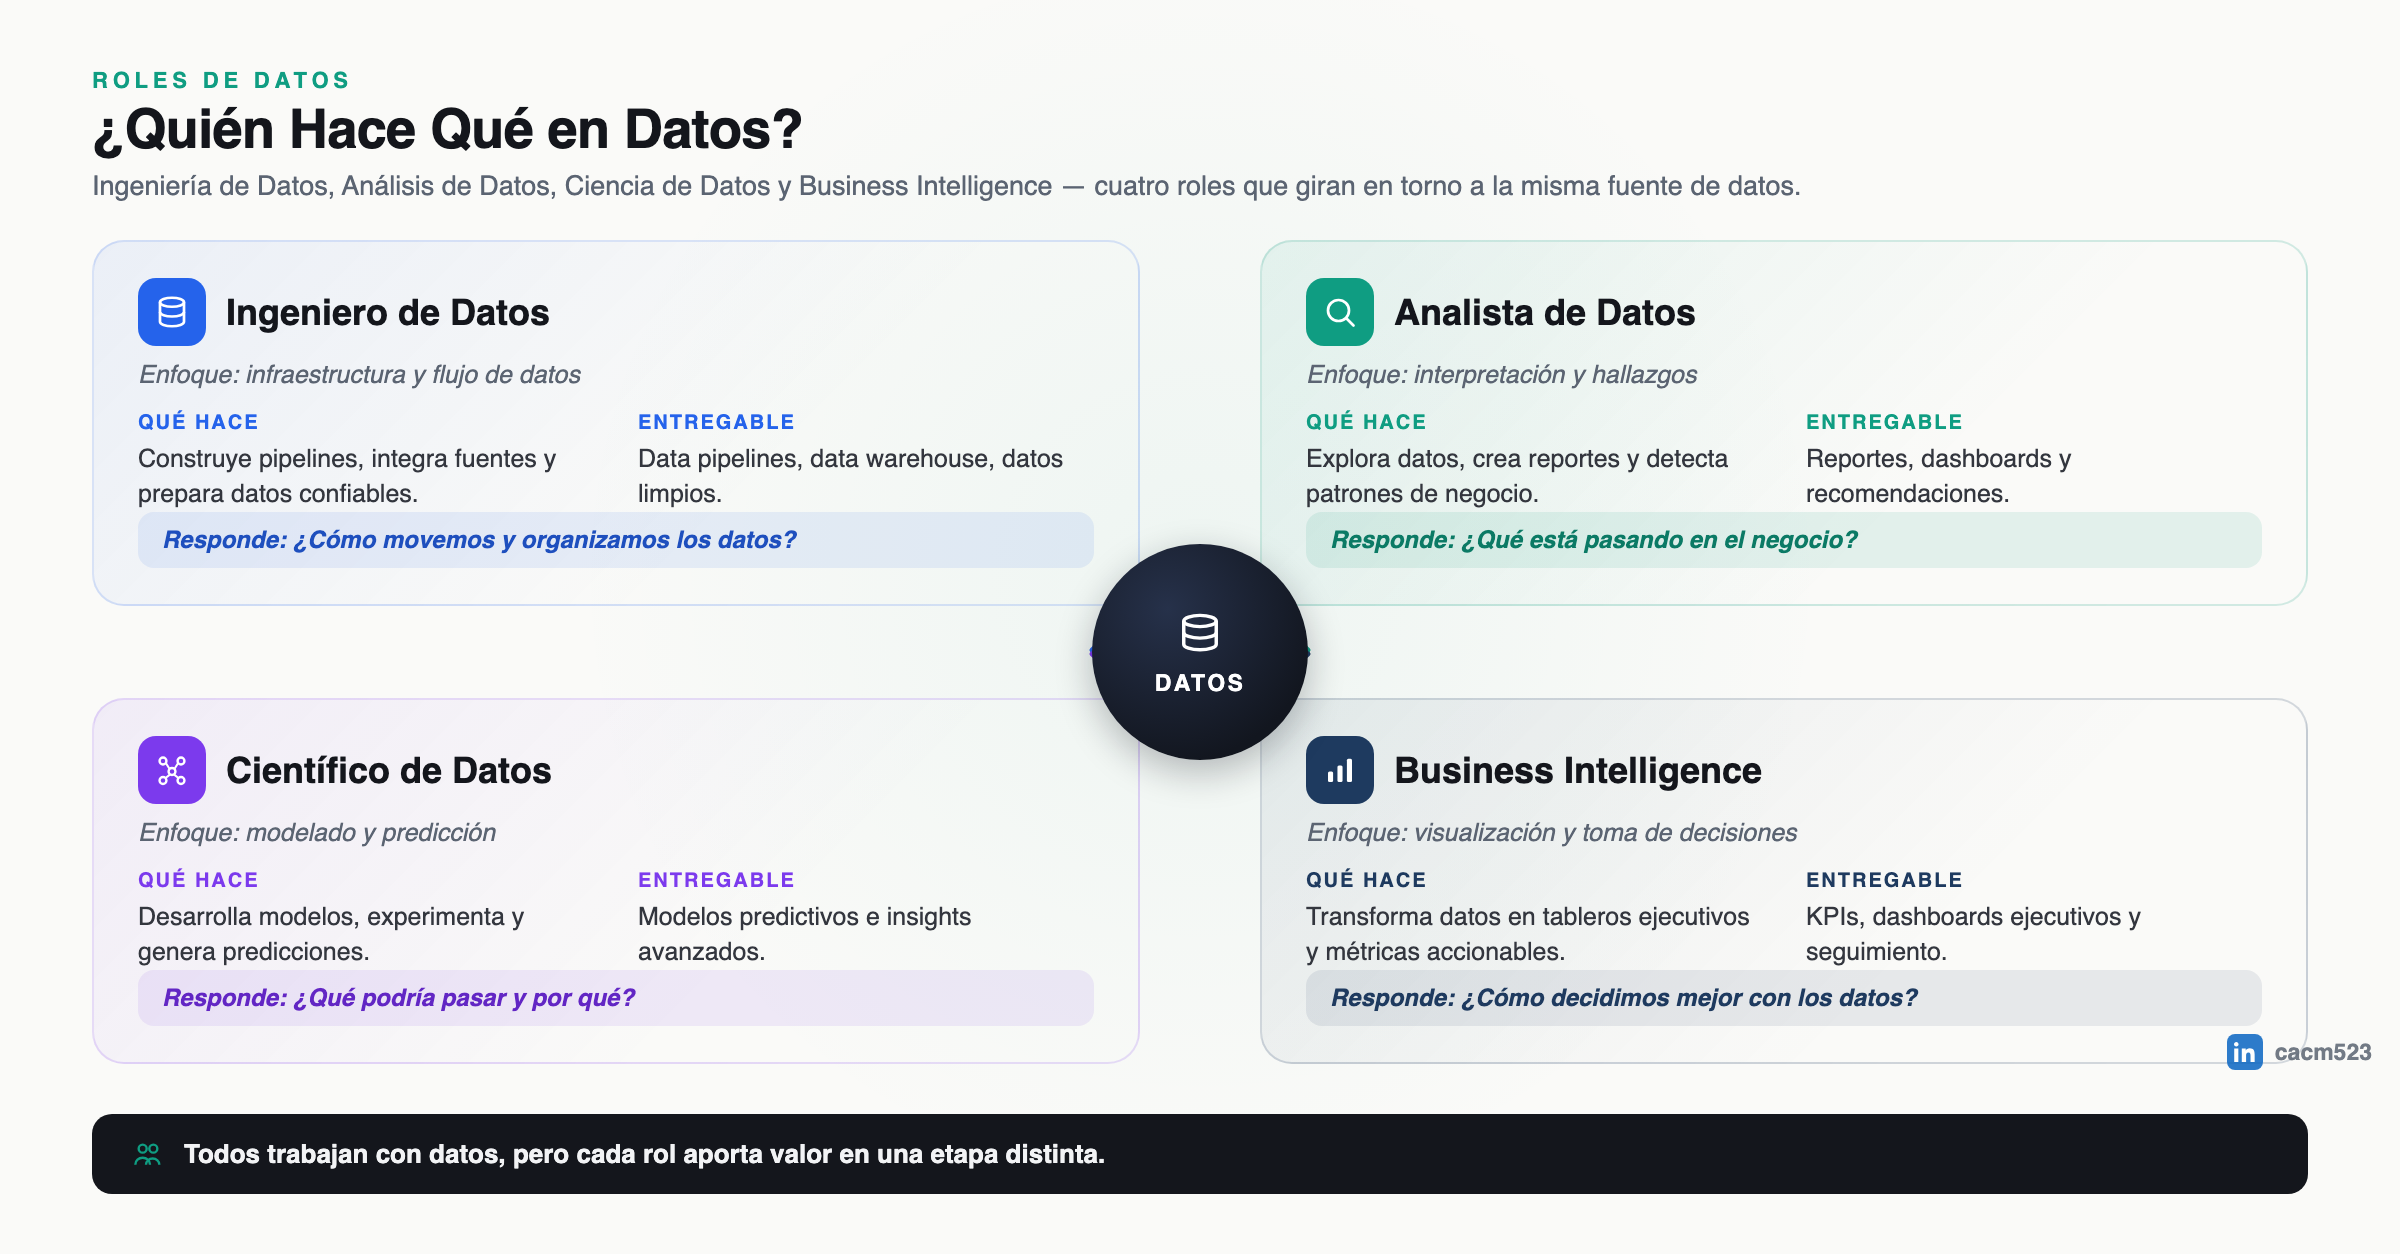
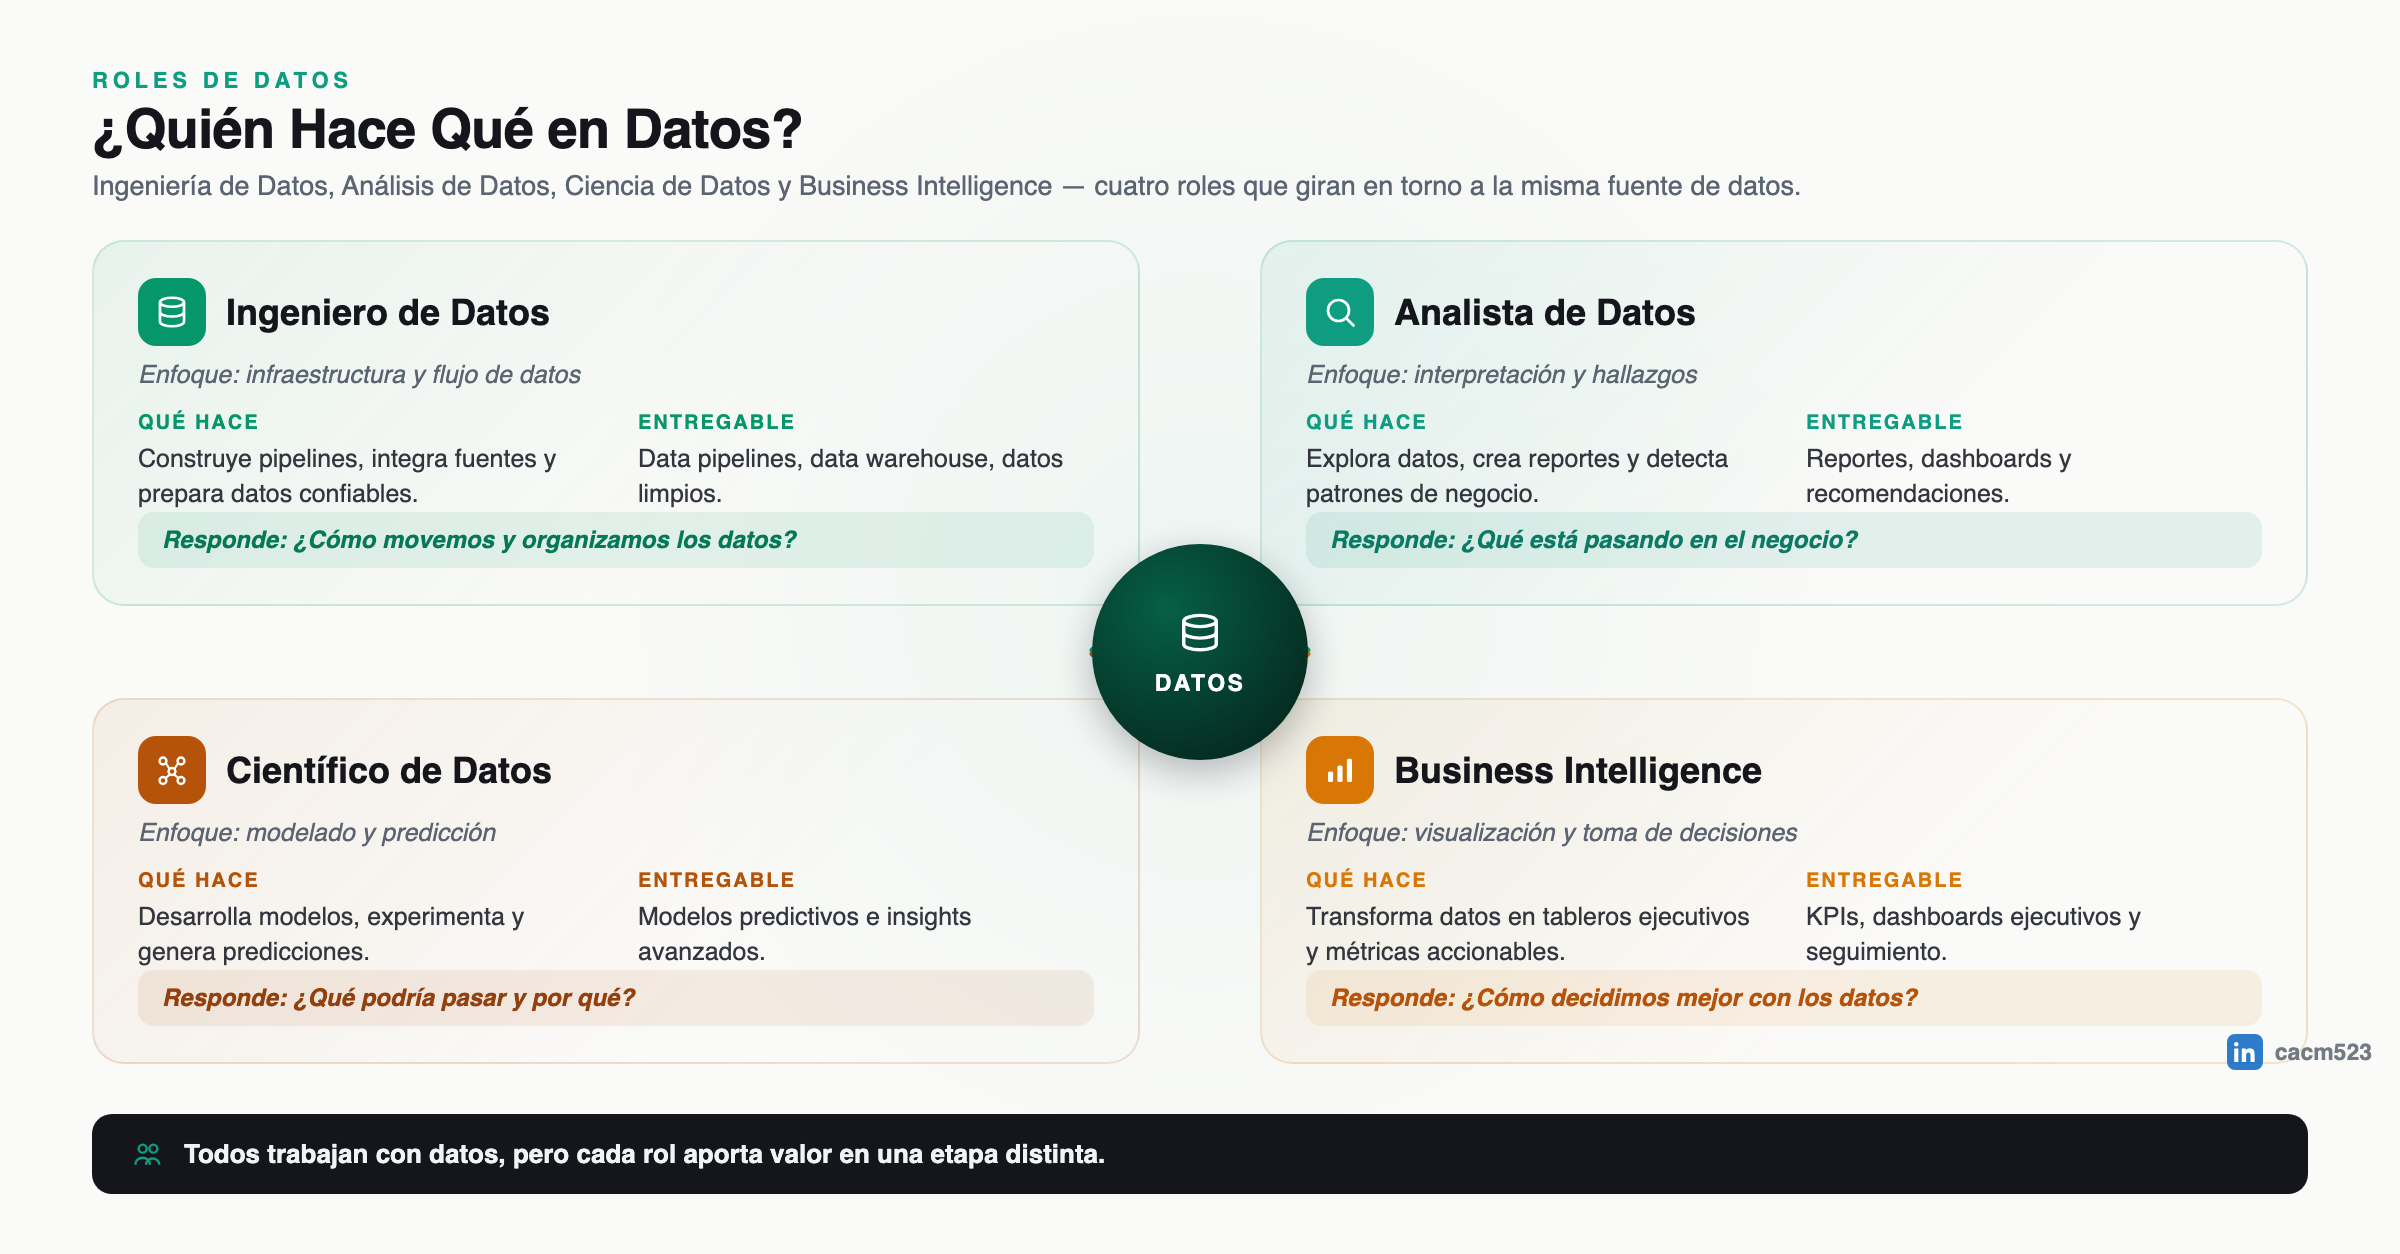
Tanda 6 (profesion-y-negocio): corrige paleta en 2 de 3 piezas
- quien-hace-que-en-datos: de azul/púrpura/navy a verde/tierra en los 4 cuadrantes y el hub central
- tipos-gestion-proyectos: fila 'Marcos Predictivos' de azul marino a verde
- matriz-raci-gestion-proyectos: revisada, ya cumplía el sistema de diseño, sin cambios

diff --git a/Construidos/Roles/quien-hace-que-en-datos.html b/Construidos/Roles/quien-hace-que-en-datos.html
@@ -9,7 +9,7 @@
     width: 1264px;
     height: 691px;
     padding: 32px;
-    background: #EDEFF3;
+    background: #ECFDF5;
     font-family: -apple-system, "SF Pro Display", "Segoe UI", Inter, Helvetica, Arial, sans-serif;
   }
   .canvas {
@@ -78,31 +78,31 @@
   }
 
   /* role color themes */
-  .tl { background: linear-gradient(135deg, rgba(37,99,235,0.07), rgba(37,99,235,0) 65%); border:1px solid rgba(37,99,235,0.16); }
-  .tl .role-badge { background:#2563EB; }
-  .tl .role-col .lbl { color:#2563EB; }
-  .tl .role-answer { background:rgba(37,99,235,0.09); color:#1E4FBE; }
+  .tl { background: linear-gradient(135deg, rgba(5,150,105,0.07), rgba(5,150,105,0) 65%); border:1px solid rgba(5,150,105,0.16); }
+  .tl .role-badge { background:#059669; }
+  .tl .role-col .lbl { color:#059669; }
+  .tl .role-answer { background:rgba(5,150,105,0.09); color:#047857; }
 
   .tr { background: linear-gradient(135deg, rgba(15,157,130,0.08), rgba(15,157,130,0) 65%); border:1px solid rgba(15,157,130,0.18); }
   .tr .role-badge { background:#0F9D82; }
   .tr .role-col .lbl { color:#0F9D82; }
   .tr .role-answer { background:rgba(15,157,130,0.10); color:#0B7A65; }
 
-  .bl { background: linear-gradient(135deg, rgba(124,58,237,0.07), rgba(124,58,237,0) 65%); border:1px solid rgba(124,58,237,0.16); }
-  .bl .role-badge { background:#7C3AED; }
-  .bl .role-col .lbl { color:#7C3AED; }
-  .bl .role-answer { background:rgba(124,58,237,0.09); color:#6226C4; }
+  .bl { background: linear-gradient(135deg, rgba(180,83,9,0.07), rgba(180,83,9,0) 65%); border:1px solid rgba(180,83,9,0.16); }
+  .bl .role-badge { background:#B45309; }
+  .bl .role-col .lbl { color:#B45309; }
+  .bl .role-answer { background:rgba(180,83,9,0.09); color:#92400E; }
 
-  .br { background: linear-gradient(135deg, rgba(30,58,95,0.08), rgba(30,58,95,0) 65%); border:1px solid rgba(30,58,95,0.18); }
-  .br .role-badge { background:#1E3A5F; }
-  .br .role-col .lbl { color:#1E3A5F; }
-  .br .role-answer { background:rgba(30,58,95,0.09); color:#1E3A5F; }
+  .br { background: linear-gradient(135deg, rgba(217,119,6,0.08), rgba(217,119,6,0) 65%); border:1px solid rgba(217,119,6,0.18); }
+  .br .role-badge { background:#D97706; }
+  .br .role-col .lbl { color:#D97706; }
+  .br .role-answer { background:rgba(217,119,6,0.09); color:#B45309; }
 
   /* ---------- Hub ---------- */
   .hub {
     position: absolute; left: 500px; top: 152px; width: 108px; height: 108px;
     border-radius: 50%;
-    background: radial-gradient(circle at 35% 30%, #26314A, #12161F 75%);
+    background: radial-gradient(circle at 35% 30%, #065F46, #052e22 75%);
     box-shadow: 0 6px 18px rgba(18,22,31,0.28);
     display:flex; flex-direction:column; align-items:center; justify-content:center;
     z-index: 3;
@@ -143,10 +143,10 @@
   <div class="compass">
 
     <svg class="spokes" viewBox="0 0 1108 412">
-      <line x1="524" y1="183" x2="500" y2="205" stroke="#2563EB" stroke-width="2.5" stroke-linecap="round"/>
+      <line x1="524" y1="183" x2="500" y2="205" stroke="#059669" stroke-width="2.5" stroke-linecap="round"/>
       <line x1="584" y1="183" x2="608" y2="205" stroke="#0F9D82" stroke-width="2.5" stroke-linecap="round"/>
-      <line x1="524" y1="229" x2="500" y2="207" stroke="#7C3AED" stroke-width="2.5" stroke-linecap="round"/>
-      <line x1="584" y1="229" x2="608" y2="207" stroke="#1E3A5F" stroke-width="2.5" stroke-linecap="round"/>
+      <line x1="524" y1="229" x2="500" y2="207" stroke="#B45309" stroke-width="2.5" stroke-linecap="round"/>
+      <line x1="584" y1="229" x2="608" y2="207" stroke="#D97706" stroke-width="2.5" stroke-linecap="round"/>
     </svg>
 
     <!-- Ingeniero de Datos -->

diff --git a/Construidos/Proyectos/tipos-gestion-proyectos.html b/Construidos/Proyectos/tipos-gestion-proyectos.html
@@ -70,9 +70,9 @@
 
   /* Predictivos */
   .lane.pred { background: rgba(43,76,126,0.045); }
-  .lane.pred .lane-label::before { background:#2B4C7E; }
-  .lane.pred .lane-name { color:#2B4C7E; }
-  .lane.pred .item-badge { background:#2B4C7E; }
+  .lane.pred .lane-label::before { background:#047857; }
+  .lane.pred .lane-name { color:#047857; }
+  .lane.pred .item-badge { background:#047857; }
 
   /* Ágiles */
   .lane.agile { background: rgba(15,157,130,0.05); }
